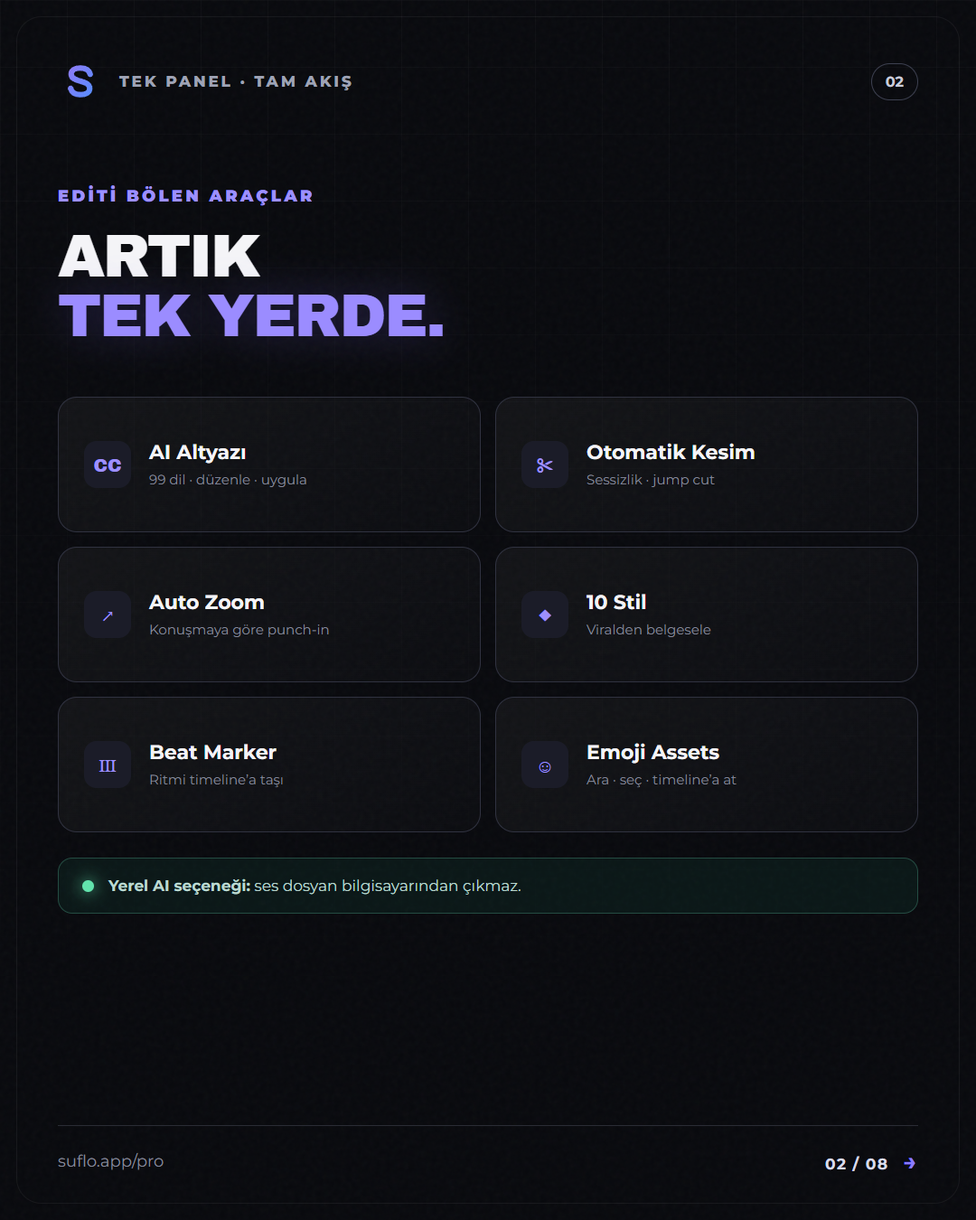
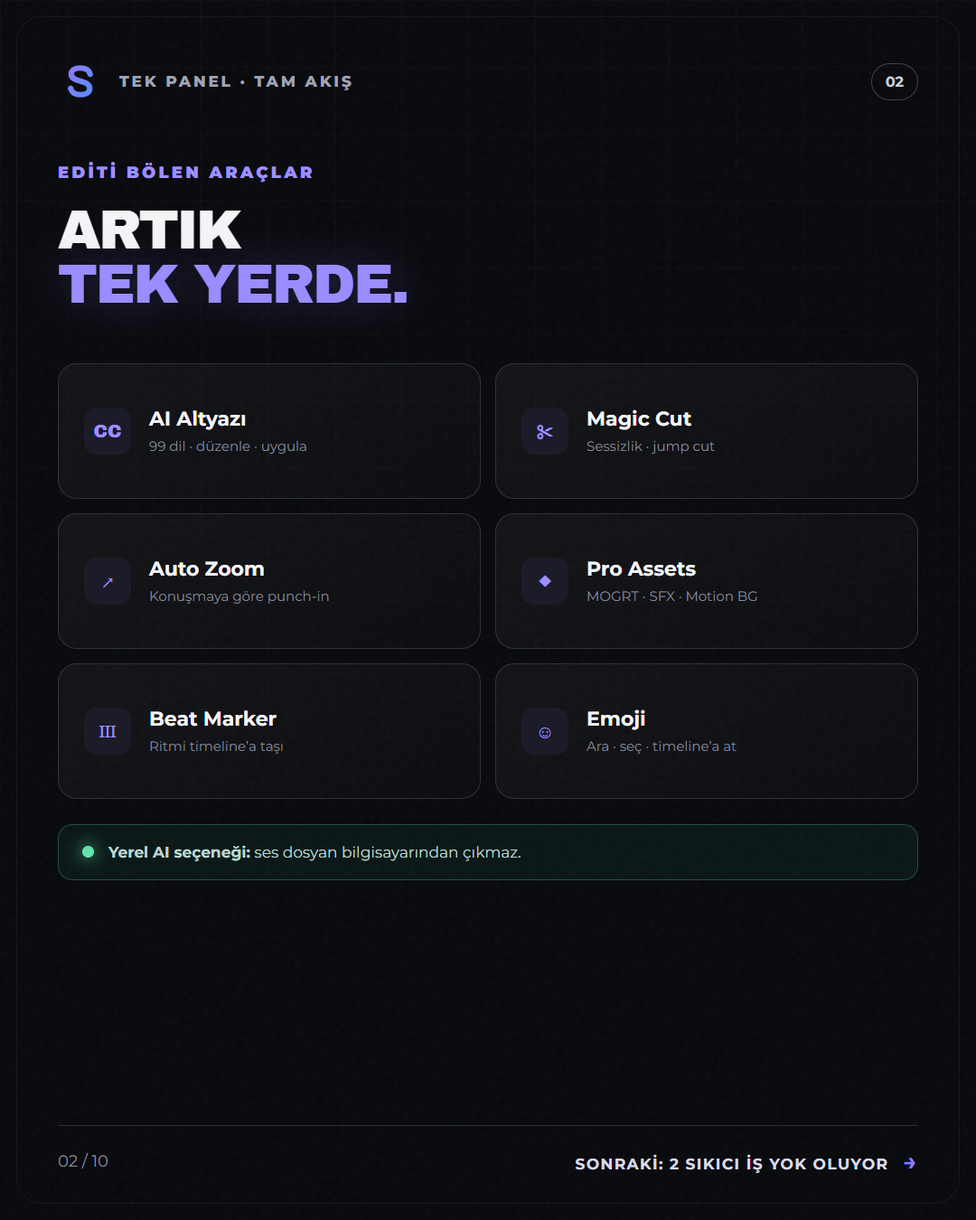
Expand Suflo 2.8.2 sponsored carousel

diff --git a/brand/carousel-2.8.2/carousel.html b/brand/carousel-2.8.2/carousel.html
@@ -12,9 +12,9 @@
       <div class="noise"></div><div class="orb orb-a"></div><div class="orb orb-b"></div>
       <header><img src="../logo-seffaf.svg" alt="Suflo"><span>PREMIERE CREATOR STUDIO</span><b>2.8.2</b></header>
       <div class="hero-copy">
-        <p class="eyebrow">PREMIERE PRO İÇİN YENİ NESİL KURGU PANELİ</p>
+        <p class="eyebrow">KURGUNU YAVAŞLATAN HER ŞEY, TEK PANELDE</p>
         <h1>PREMIERE’DEN<br><em>ÇIKMADAN</em><br>KURGULA.</h1>
-        <p class="lead">Altyazı. Kesim. Zoom. Animasyon. SFX.<br>Tek panelde, tek akışta.</p>
+        <p class="lead">Altyazı. Kesim. Zoom. Yazı efekti. SFX.<br>Akış bozulmadan, fikir soğumadan.</p>
       </div>
       <div class="hero-ui">
         <div class="window-bar"><i></i><i></i><i></i><span>SUFLO / TRANSCRIPT</span><b>PRO</b></div>
@@ -22,118 +22,152 @@
         <div class="transcript dim"><span>00:15</span><p>Boşlukları bul, ritmi koru.</p></div>
         <div class="timeline"><i></i><b></b><b></b><b></b><em></em></div>
       </div>
-      <footer><span>suflo.app/pro</span><b>KAYDIR <i>→</i></b></footer>
+      <footer><span>suflo.app/pro</span><b>İÇERİDE NELER VAR? <i>→</i></b></footer>
     </section>
 
     <section class="slide s2" data-slide="2">
       <div class="noise"></div><div class="grid-bg"></div>
       <header><img src="../logo-seffaf.svg" alt="Suflo"><span>TEK PANEL · TAM AKIŞ</span><b>02</b></header>
-      <div class="title-block"><p class="eyebrow">EDİTİ BÖLEN ARAÇLAR</p><h2>ARTIK<br><em>TEK YERDE.</em></h2></div>
+      <div class="title-block compact-title"><p class="eyebrow">EDİTİ BÖLEN ARAÇLAR</p><h2>ARTIK<br><em>TEK YERDE.</em></h2></div>
       <div class="tool-grid">
         <article><i>CC</i><b>AI Altyazı</b><span>99 dil · düzenle · uygula</span></article>
-        <article><i>✂</i><b>Otomatik Kesim</b><span>Sessizlik · jump cut</span></article>
+        <article><i>✂</i><b>Magic Cut</b><span>Sessizlik · jump cut</span></article>
         <article><i>↗</i><b>Auto Zoom</b><span>Konuşmaya göre punch-in</span></article>
-        <article><i>◆</i><b>10 Stil</b><span>Viralden belgesele</span></article>
+        <article><i>◆</i><b>Pro Assets</b><span>MOGRT · SFX · Motion BG</span></article>
         <article><i>Ⅲ</i><b>Beat Marker</b><span>Ritmi timeline’a taşı</span></article>
-        <article><i>☺</i><b>Emoji Assets</b><span>Ara · seç · timeline’a at</span></article>
+        <article><i>☺</i><b>Emoji</b><span>Ara · seç · timeline’a at</span></article>
       </div>
       <div class="trust"><i></i><span><b>Yerel AI seçeneği:</b> ses dosyan bilgisayarından çıkmaz.</span></div>
-      <footer><span>suflo.app/pro</span><b>02 / 08 <i>→</i></b></footer>
+      <footer><span>02 / 10</span><b>SONRAKİ: 2 SIKICI İŞ YOK OLUYOR <i>→</i></b></footer>
     </section>
 
     <section class="slide s3" data-slide="3">
-      <div class="noise"></div><div class="orb orb-cut"></div>
-      <header><img src="../logo-seffaf.svg" alt="Suflo"><span>MAGIC CUT</span><b>03</b></header>
-      <div class="title-block"><p class="eyebrow">KONTROL SENDE</p><h2>BOŞLUĞU KES.<br><em>HİKÂYEYİ BIRAK.</em></h2></div>
-      <div class="cut-stage">
-        <div class="wave top"><i></i><i></i><i></i><i></i><i></i><i></i><i></i><i></i><i></i><i></i><i></i><i></i><i></i><i></i><i></i><i></i><i></i><i></i></div>
-        <div class="cut-zone z1"><span>SESSİZLİK</span></div><div class="cut-zone z2"><span>DOLGU</span></div>
-        <div class="playhead"></div>
-        <div class="clips"><b>01</b><b>02</b><b>03</b><b>04</b><b>05</b></div>
+      <div class="noise"></div><div class="orb orb-cut"></div><div class="rings mini-rings"></div>
+      <header><img src="../logo-seffaf.svg" alt="Suflo"><span>MAGIC CUT + AUTO ZOOM</span><b>03</b></header>
+      <div class="title-block compact-title"><p class="eyebrow">RİTMİ SEN KUR, TEKRARI SUFLO YAPSIN</p><h2>KESİM VE ZOOM.<br><em>İKİSİ DE AKILLI.</em></h2></div>
+      <div class="dual-feature">
+        <article class="dual-cut">
+          <div class="mini-wave"><i></i><i></i><i></i><i></i><i></i><i></i><i></i><i></i><i></i></div>
+          <span>01 · MAGIC CUT</span><b>Boşlukları bulur.</b><p>Önizlersin, onaylarsın, timeline temizlenir.</p>
+        </article>
+        <article class="dual-zoom">
+          <div class="focus-box"><b>100%</b><i>112%</i></div>
+          <span>02 · AUTO ZOOM</span><b>Vurguyu yaklaştırır.</b><p>Yoğunluk, süre ve aralık kontrolü sende kalır.</p>
+        </article>
       </div>
-      <div class="feature-list">
-        <article><b>01</b><span><strong>Önce analiz</strong> — kesilecek yerleri gör.</span></article>
-        <article><b>02</b><span><strong>Sonra önizle</strong> — ritmi sen onayla.</span></article>
-        <article><b>03</b><span><strong>Tek tıkla uygula</strong> — timeline temizlensin.</span></article>
-      </div>
-      <footer><span>suflo.app/pro</span><b>03 / 08 <i>→</i></b></footer>
+      <div class="proof-bar"><b>KONTROL SENDE</b><span>Analiz → Önizleme → Uygula</span></div>
+      <footer><span>03 / 10</span><b>SONRAKİ: EN COOL TEXT EFEKTLERİ <i>→</i></b></footer>
     </section>
 
-    <section class="slide s4" data-slide="4">
+    <section class="slide s4 text-fx-slide" data-slide="4">
+      <div class="noise"></div><div class="text-ghost">TEXT</div>
+      <header><img src="../logo-seffaf.svg" alt="Suflo"><span>PRO TEXT EFFECTS</span><b>04</b></header>
+      <div class="title-block fx-title"><p class="eyebrow">TİKTOK’TAN PREMIUM REKLAMA</p><h2>YAZI DEĞİL.<br><em>SAHNENİN KENDİSİ.</em></h2></div>
+      <div class="fx-gallery">
+        <article class="fx-wide"><img src="../../assets/pro-mogrt-showcase/previews/31-premium-text.webp" alt="Premium Text"><span><b>PREMIUM TEXT</b><i>Sinematik başlık</i></span></article>
+        <article><img src="../../assets/pro-mogrt-showcase/previews/01-smooth-up.webp" alt="Smooth Up"><span><b>SMOOTH UP</b><i>Temiz giriş</i></span></article>
+        <article><img src="../../assets/pro-mogrt-showcase/previews/06-gold-text.webp" alt="Gold Text"><span><b>GOLD TEXT</b><i>Lüks görünüm</i></span></article>
+        <article><img src="../../assets/pro-mogrt-showcase/previews/29-cracked.webp" alt="Cracked"><span><b>CRACKED</b><i>Yüksek etki</i></span></article>
+        <article><img src="../../assets/pro-mogrt-showcase/previews/36-static-shine.webp" alt="Static Shine"><span><b>STATIC SHINE</b><i>Parlak vurgu</i></span></article>
+      </div>
+      <div class="count-ribbon"><strong>262</strong><span>MOGRT · yazı · grafik · geçiş</span><b>PRO</b></div>
+      <footer><span>04 / 10</span><b>SONRAKİ: EDİTİ DUYURAN 769 SES <i>→</i></b></footer>
+    </section>
+
+    <section class="slide s5 sfx-slide" data-slide="5">
+      <div class="noise"></div><div class="orb orb-sfx"></div>
+      <header><img src="../logo-seffaf.svg" alt="Suflo"><span>SMART SFX LIBRARY</span><b>05</b></header>
+      <div class="title-block compact-title"><p class="eyebrow">SESSİZ EDİT, YARIM EDİTTİR</p><h2>HER HAREKETİN<br><em>BİR SESİ VAR.</em></h2></div>
+      <div class="sfx-counter"><strong>769</strong><div><b>SFX</b><span>Ara · ön dinle · playhead’e ekle</span></div></div>
+      <div class="sfx-browser">
+        <div class="search"><i>⌕</i><span>whoosh, impact, click...</span><b>⌘K</b></div>
+        <div class="sfx-tags"><span>SUFLO SMOOTH</span><span>WHOOSHES</span><span>IMPACTS</span><span>QUICK WHIPS</span><span>POP SOUNDS</span><span>CLICKS</span><span>NOTIFICATIONS</span><span>KEYBOARD</span><span>PAPER</span><span>GLITCHES</span></div>
+        <div class="audio-row"><button>▶</button><b>SUFLO Smooth Whoosh 04</b><i></i><span>＋ EKLE</span></div>
+      </div>
+      <p class="sfx-note">Yeni: Malice iş birliğiyle hazırlanan <b>9 özel SUFLO Smooth Whoosh.</b></p>
+      <footer><span>05 / 10</span><b>SONRAKİ: KEYFRAME’SİZ HAREKET <i>→</i></b></footer>
+    </section>
+
+    <section class="slide s6 motion-slide" data-slide="6">
       <div class="noise"></div><div class="rings"></div>
-      <header><img src="../logo-seffaf.svg" alt="Suflo"><span>AUTO ZOOM + MOTION</span><b>04</b></header>
-      <div class="title-block"><p class="eyebrow">KEYFRAME ÇİZMEK YERİNE</p><h2>HAREKETİ<br><em>TEK TIKLA VER.</em></h2></div>
-      <div class="zoom-stage">
-        <div class="frame f1"><span>100%</span><b>SUFLO</b></div>
-        <div class="arrow">→</div>
-        <div class="frame f2"><span>112%</span><b>SUFLO</b><i></i></div>
+      <header><img src="../logo-seffaf.svg" alt="Suflo"><span>ONE-CLICK MOTION</span><b>06</b></header>
+      <div class="title-block compact-title"><p class="eyebrow">KEYFRAME ÇİZMEK YERİNE</p><h2>HAREKETİ<br><em>TEK TIKLA VER.</em></h2></div>
+      <div class="motion-grid">
+        <article><i>↗</i><b>Simple Zoom In</b><span>Yumuşak yaklaşma</span></article>
+        <article><i>↙</i><b>Simple Zoom Out</b><span>Temiz açılma</span></article>
+        <article><i>●</i><b>Pop In</b><span>Esnek giriş</span></article>
+        <article><i>→</i><b>Slide In</b><span>4 yönlü giriş</span></article>
+        <article><i>◇</i><b>Clean Fade</b><span>Giriş + çıkış</span></article>
+        <article><i>✦</i><b>Focus Punch</b><span>Vurgu zoom’u</span></article>
+        <article><i>〰</i><b>Micro Shake</b><span>Kamera vurgusu</span></article>
+        <article><i>⇥</i><b>Slide Out</b><span>Temiz çıkış</span></article>
       </div>
-      <div class="metric-row">
-        <article><strong>12</strong><b>Yerleşik Motion</b><span>Slide · Zoom · Pop · Fade</span></article>
-        <article><strong>AUTO</strong><b>Konuşma Zoom’u</b><span>Yoğunluk · süre · aralık kontrolü</span></article>
-      </div>
-      <div class="micro-note">Preset uygulandı deyip geçmez: anahtarları gerçekten timeline’a yazar ve doğrular.</div>
-      <footer><span>suflo.app/pro</span><b>04 / 08 <i>→</i></b></footer>
+      <div class="motion-proof"><strong>12</strong><span><b>yerleşik hareket</b><i>Premiere timeline’ına gerçek keyframe yazar.</i></span></div>
+      <footer><span>06 / 10</span><b>SONRAKİ: 278’LİK DEV PAKET <i>→</i></b></footer>
     </section>
 
-    <section class="slide s5" data-slide="5">
-      <div class="noise"></div><div class="orb orb-lib"></div>
-      <header><img src="../logo-seffaf.svg" alt="Suflo"><span>PRO İÇERİK BULUTU</span><b>05</b></header>
-      <div class="title-block"><p class="eyebrow">HER EDİTÖRÜN ARADIĞI ŞEY</p><h2>BİR KÜTÜPHANE DEĞİL.<br><em>EDİT CEPHANELİĞİ.</em></h2></div>
-      <div class="big-metrics">
-        <article><strong>262</strong><b>ANİMASYON</b><span>Yazı · grafik · geçiş</span></article>
-        <article><strong>769</strong><b>SFX</b><span>Ara · ön dinle · ekle</span></article>
-        <article><strong>30</strong><b>MOTION BG</b><span>Zemin · overlay · loop</span></article>
-      </div>
-      <div class="preview-strip">
-        <img src="../../assets/pro-mogrt-showcase/previews/01-smooth-up.webp" alt="Smooth Up">
-        <img src="../../assets/pro-mogrt-showcase/previews/06-gold-text.webp" alt="Gold Text">
-        <img src="../../assets/pro-mogrt-showcase/previews/11-zoom-in.webp" alt="Zoom In">
-        <img src="../../assets/pro-mogrt-showcase/previews/31-premium-text.webp" alt="Premium Text">
-      </div>
-      <div class="cloud-note"><i>↻</i><span><b>Bir kez kur.</b> Yeni içerik geldiğinde yalnız değişen dosyalar insin.</span></div>
-      <footer><span>suflo.app/pro</span><b>05 / 08 <i>→</i></b></footer>
-    </section>
-
-    <section class="slide s6" data-slide="6">
+    <section class="slide s7 preset-slide" data-slide="7">
       <div class="noise"></div><div class="mesh"></div>
-      <header><img src="../logo-seffaf.svg" alt="Suflo"><span>YENİ · 2.8.2</span><b>06</b></header>
+      <header><img src="../logo-seffaf.svg" alt="Suflo"><span>YENİ · SUFLO SMOOTH PACK</span><b>07</b></header>
       <div class="preset-hero">
         <div class="pr-icon"><span>Pr</span><b>278</b><i>PRESET</i></div>
-        <div><p class="eyebrow">SUFLO SMOOTH EDITING PACK</p><h2>PREMIERE’E<br><em>YENİ HAREKET DİLİ.</em></h2></div>
+        <div><p class="eyebrow">TEK DOSYADA DEV HAREKET SETİ</p><h2>PREMIERE’E<br><em>YENİ HAREKET DİLİ.</em></h2></div>
       </div>
       <div class="preset-tags"><span>SHAKE</span><span>SLIDE</span><span>ZOOM</span><span>TRANSITION</span><span>LOOK</span><span>BLUR</span><span>FLASH</span><span>FLICKER</span></div>
       <div class="install-card">
-        <div><b>1×</b><span>dosyayı içe aktar</span></div><i>→</i><div><b>∞</b><span>Premiere’de kalıcı kullan</span></div>
+        <div><b>1×</b><span>paketi içe aktar</span></div><i>→</i><div><b>∞</b><span>Premiere’de kalıcı kullan</span></div>
       </div>
-      <p class="honest">Suflo paketi otomatik indirir, dosyayı gösterir ve gerçek Premiere import adımlarını açar.</p>
-      <footer><span>suflo.app/pro</span><b>06 / 08 <i>→</i></b></footer>
+      <p class="honest">Suflo paketi indirir, dosyayı gösterir ve doğru Premiere import adımlarını açar.</p>
+      <footer><span>07 / 10</span><b>SONRAKİ: KÜTÜPHANE NASIL BÜYÜR? <i>→</i></b></footer>
     </section>
 
-    <section class="slide s7" data-slide="7">
+    <section class="slide s8 cloud-slide" data-slide="8">
+      <div class="noise"></div><div class="orb orb-lib"></div>
+      <header><img src="../logo-seffaf.svg" alt="Suflo"><span>PRO İÇERİK BULUTU</span><b>08</b></header>
+      <div class="title-block compact-title"><p class="eyebrow">BİR KEZ KUR, GÜNCEL KAL</p><h2>YENİ İÇERİK GELİR.<br><em>PAKETİN BÜYÜR.</em></h2></div>
+      <div class="big-metrics cloud-metrics">
+        <article><strong>262</strong><b>MOGRT</b><span>Yazı · grafik · geçiş</span></article>
+        <article><strong>769</strong><b>SFX</b><span>Sesli geri bildirim</span></article>
+        <article><strong>30</strong><b>MOTION BG</b><span>Zemin · overlay · loop</span></article>
+      </div>
+      <div class="sync-flow">
+        <article><b>01</b><span><strong>Suflo kontrol eder</strong><i>Yeni içerik var mı?</i></span></article>
+        <article><b>02</b><span><strong>Sadece değişeni indirir</strong><i>Baştan paket kurdurmaz.</i></span></article>
+        <article><b>03</b><span><strong>Kütüphaneyi açar</strong><i>İçerik kullanıma hazır.</i></span></article>
+      </div>
+      <div class="cloud-note"><i>↻</i><span><b>Pro içerik bulutu:</b> lisansına bağlı, güncel ve tek panelden yönetilir.</span></div>
+      <footer><span>08 / 10</span><b>SONRAKİ: ALTYAZININ 10 KARAKTERİ <i>→</i></b></footer>
+    </section>
+
+    <section class="slide s9 caption-slide" data-slide="9">
       <div class="noise"></div><div class="type-bg">SUFLO SUFLO SUFLO</div>
-      <header><img src="../logo-seffaf.svg" alt="Suflo"><span>ALTYAZI STİLLERİ</span><b>07</b></header>
-      <div class="title-block"><p class="eyebrow">OKUNMAK İÇİN DEĞİL, HATIRLANMAK İÇİN</p><h2>SIRADAN ALTYAZI DEĞİL.<br><em>BİR STİL SEÇ.</em></h2></div>
+      <header><img src="../logo-seffaf.svg" alt="Suflo"><span>AI ALTYAZI + 10 STİL</span><b>09</b></header>
+      <div class="title-block compact-title"><p class="eyebrow">VİRALDEN BELGESELE, TEK TIKLA</p><h2>ALTYAZININ DA<br><em>BİR KARAKTERİ VAR.</em></h2></div>
       <div class="style-stage">
-        <article class="st-yellow"><span>BUGÜN</span><b>DEĞİŞİYOR</b></article>
-        <article class="st-green"><span>PARA</span><b>KAZAN</b></article>
-        <article class="st-box"><span>TAM</span><b>VİRAL</b></article>
-        <article class="st-neon"><span>GECE</span><b>MODU</b></article>
+        <article class="st-yellow"><span>SARI</span><b>VURGU</b></article>
+        <article class="st-green"><span>YEŞİL</span><b>KONTUR</b></article>
+        <article class="st-box"><span>TAM</span><b>KUTU</b></article>
+        <article class="st-neon"><span>NEON</span><b>GECE</b></article>
         <article class="st-serif"><span>zarif</span><b>hikâye</b></article>
-        <article class="st-type"><span>yazılıyor</span><b>|</b></article>
+        <article class="st-type"><span>daktilo</span><b>|</b></article>
       </div>
-      <div class="style-foot"><strong>10</strong><span>tanınır stil · gerçek panel önizlemesi · kilitli Pro vitrini</span></div>
-      <footer><span>suflo.app/pro</span><b>07 / 08 <i>→</i></b></footer>
+      <div class="caption-stats">
+        <article><strong>99</strong><span><b>dil</b><i>AI transkripsiyon</i></span></article>
+        <article><strong>10</strong><span><b>stil</b><i>gerçek panel önizlemesi</i></span></article>
+        <article><strong>LOCAL</strong><span><b>seçenek</b><i>ses bilgisayarında</i></span></article>
+      </div>
+      <footer><span>09 / 10</span><b>SONRAKİ: TAM PAKET + FİYAT <i>→</i></b></footer>
     </section>
 
-    <section class="slide s8" data-slide="8">
+    <section class="slide s10 offer-slide" data-slide="10">
       <div class="noise"></div><div class="orb orb-price"></div><div class="price-grid"></div>
-      <header><img src="../logo-seffaf.svg" alt="Suflo"><span>SUFLO PRO</span><b>08</b></header>
+      <header><img src="../logo-seffaf.svg" alt="Suflo"><span>SUFLO PRO 2.8.2</span><b>10</b></header>
       <div class="price-copy">
         <p class="eyebrow">ABONELİK YOK. KREDİ YOK.</p>
-        <h2>BİR KERE AL.<br><em>HER EDİTTE HIZLAN.</em></h2>
+        <h2>DAHA AZ TIK.<br><em>DAHA ÇOK KURGU.</em></h2>
         <div class="price"><strong>749</strong><span>TL</span><i>tek sefer</i></div>
       </div>
+      <div class="value-stack"><b>262 MOGRT</b><i>+</i><b>769 SFX</b><i>+</i><b>278 PRESET</b></div>
       <div class="offer-list">
         <span><i>✓</i> 3 bilgisayarda kullanım</span>
         <span><i>✓</i> 14 gün iade güvencesi</span>
@@ -141,8 +175,8 @@
         <span><i>✓</i> Premiere 2020+ · Windows / macOS</span>
       </div>
       <div class="cta"><span>HEMEN İNCELE</span><b>suflo.app/pro</b><i>→</i></div>
-      <p class="fine">Ücretsiz Suflo sürümü devam eder. Pro, hızlandırıcı araçları ve içerik kütüphanesini açar.</p>
-      <footer><span>@suflo.app</span><b>PREMIERE’DE DAHA AZ TIK.</b></footer>
+      <p class="fine">Ücretsiz Suflo sürümü devam eder. Pro; hızlandırıcı araçları, presetleri ve içerik kütüphanesini açar.</p>
+      <footer><span>@suflo.app</span><b>YENİ SÜRÜM ŞİMDİ YAYINDA.</b></footer>
     </section>
   </main>
   <script src="carousel.js"></script>

diff --git a/brand/carousel-2.8.2/carousel.css b/brand/carousel-2.8.2/carousel.css
@@ -8,3 +8,12 @@
 .mesh{position:absolute;inset:0;background:radial-gradient(circle at 78% 33%,rgba(107,77,255,.26),transparent 28%),radial-gradient(circle at 13% 72%,rgba(11,123,149,.18),transparent 27%)}.preset-hero{position:relative;z-index:3;margin-top:86px;display:grid;grid-template-columns:270px 1fr;align-items:center;gap:42px}.pr-icon{height:260px;border-radius:34px;background:linear-gradient(150deg,#17182a,#0d0e16);border:1px solid #544995;box-shadow:0 30px 70px rgba(0,0,0,.42),inset 0 0 55px rgba(101,75,255,.13);display:flex;flex-direction:column;align-items:center;justify-content:center}.pr-icon span{position:absolute;margin-top:-185px;margin-left:-180px;font-family:Archivo;color:#b4aaff}.pr-icon b{font-family:Archivo;font-size:92px;line-height:1;color:#a497ff}.pr-icon i{font-style:normal;font-size:14px;letter-spacing:3px;color:#73778d;margin-top:12px}.preset-hero h2{font-size:56px}.preset-tags{position:relative;z-index:3;margin-top:55px;display:flex;gap:12px;flex-wrap:wrap}.preset-tags span{padding:16px 22px;border:1px solid #343747;border-radius:999px;background:rgba(255,255,255,.025);font-family:Archivo;font-size:16px;letter-spacing:1px;color:#c6c8d4}.preset-tags span:nth-child(4n+1){border-color:#5c50a8;color:#b3a9ff}.install-card{position:relative;z-index:3;margin-top:45px;padding:28px 38px;border-radius:23px;border:1px solid #343746;background:#11131b;display:flex;align-items:center;justify-content:space-around}.install-card div{display:flex;align-items:center;gap:16px}.install-card div b{font-family:Archivo;font-size:42px;color:#9e91ff}.install-card div span{font-size:17px;color:#a7aaba}.install-card>i{font-style:normal;color:#5b5f70;font-size:34px}.honest{position:relative;z-index:3;color:#8f93a6;font-size:15px;text-align:center;margin:22px 30px 0;line-height:1.55}
 .type-bg{position:absolute;left:-80px;top:360px;white-space:nowrap;font-family:Archivo;font-size:150px;color:rgba(255,255,255,.018);transform:rotate(-8deg)}.style-stage{position:relative;z-index:3;margin-top:56px;display:grid;grid-template-columns:1fr 1fr 1fr;gap:13px}.style-stage article{height:153px;border:1px solid #30333f;border-radius:20px;background:#11131a;display:flex;flex-direction:column;align-items:center;justify-content:center;overflow:hidden}.style-stage span,.style-stage b{font-family:Archivo;font-size:26px}.st-yellow span{background:#ffd84b;color:#111;padding:4px 10px}.st-green b{color:#67f2a8;text-shadow:2px 2px 0 #111,-1px -1px 0 #111}.st-box span{padding:6px 12px;background:#9a82ff}.st-neon{box-shadow:inset 0 0 40px rgba(202,54,255,.12)}.st-neon b{color:#ff75f1;text-shadow:0 0 17px #dc3cff}.st-serif span,.st-serif b{font-family:Lora,serif;font-style:italic}.st-type span{font-family:monospace;font-size:23px}.st-type b{color:#9e91ff}.style-foot{position:relative;z-index:3;margin-top:25px;padding:22px 28px;border-radius:18px;background:linear-gradient(100deg,rgba(125,104,255,.19),rgba(20,22,31,.7));border:1px solid #3a3562;display:flex;align-items:center;gap:22px}.style-foot strong{font-family:Archivo;font-size:44px;color:#a699ff}.style-foot span{font-size:16px;color:#b2b5c4}
 .orb-price{width:820px;height:820px;left:390px;top:-320px;background:radial-gradient(circle,#332071,transparent 67%)}.price-grid{position:absolute;inset:0;background:linear-gradient(rgba(255,255,255,.018) 1px,transparent 1px),linear-gradient(90deg,rgba(255,255,255,.018) 1px,transparent 1px);background-size:60px 60px;transform:perspective(600px) rotateX(55deg) translateY(680px) scale(1.8);transform-origin:center}.price-copy{position:relative;z-index:3;margin-top:90px}.price-copy h2{font-size:70px}.price{margin-top:40px;display:flex;align-items:flex-end;gap:14px}.price strong{font-family:Archivo;font-size:145px;line-height:.8;color:#fff}.price span{font-family:Archivo;font-size:55px;color:#a599ff}.price i{font-style:normal;margin:0 0 7px 8px;padding:10px 14px;border-radius:999px;background:#26223f;color:#bdb6ec;font-size:15px}.offer-list{position:relative;z-index:3;margin-top:52px;display:grid;grid-template-columns:1fr 1fr;gap:15px}.offer-list span{padding:19px 18px;border:1px solid #30323e;border-radius:15px;background:rgba(17,19,26,.75);font-size:15px;color:#b8bbc8}.offer-list i{font-style:normal;color:#6ce5ac;margin-right:10px;font-weight:900}.cta{position:relative;z-index:3;margin-top:38px;height:105px;border-radius:22px;background:linear-gradient(105deg,#7767f4,#5f8cf8);box-shadow:0 28px 60px rgba(90,85,242,.3);display:grid;grid-template-columns:190px 1fr 50px;align-items:center;padding:0 32px}.cta span{font-size:14px;letter-spacing:1.8px}.cta b{font-family:Archivo;font-size:32px}.cta i{font-style:normal;font-size:38px}.fine{position:relative;z-index:3;text-align:center;color:#7d8191;font-size:13px;margin:19px 30px 0;line-height:1.5}
+
+/* 2.8.2 conversion carousel expansion */
+.compact-title{margin-top:58px}.compact-title h2{font-size:61px}.mini-rings{right:-520px;top:290px;opacity:.7}.dual-feature{position:relative;z-index:4;display:grid;grid-template-columns:1fr 1fr;gap:18px;margin-top:50px}.dual-feature article{height:420px;padding:28px;border:1px solid #323542;border-radius:25px;background:linear-gradient(150deg,rgba(25,27,38,.95),rgba(11,12,18,.95));box-shadow:0 28px 60px rgba(0,0,0,.25)}.dual-feature article>span{display:block;margin-top:25px;color:#9d90ff;font-size:14px;letter-spacing:2px;font-weight:900}.dual-feature article>b{display:block;margin-top:13px;font-size:25px}.dual-feature article>p{color:#8f93a5;font-size:16px;line-height:1.5;margin:10px 0 0}.mini-wave{height:180px;padding:28px 20px;display:flex;align-items:center;gap:7px;border-radius:18px;background:#0b0d13;border:1px solid #282b36}.mini-wave i{flex:1;height:70%;border-radius:7px;background:#8d7efa}.mini-wave i:nth-child(2n){height:35%}.mini-wave i:nth-child(3n){height:94%;background:#e55f79}.focus-box{position:relative;height:180px;border-radius:18px;background:linear-gradient(145deg,#151722,#0a0b0f);border:1px solid #2d3040;overflow:hidden;display:flex;align-items:center;justify-content:center}.focus-box:after{content:"";position:absolute;width:140px;height:105px;border:2px solid #8d7eff;border-radius:12px;box-shadow:0 0 28px rgba(141,126,255,.35)}.focus-box b,.focus-box i{position:absolute;font-style:normal;font-family:Archivo}.focus-box b{left:18px;top:17px;color:#70758a;font-size:15px}.focus-box i{font-size:38px;color:#a99eff;z-index:2}.proof-bar{position:relative;z-index:4;margin-top:22px;border-left:4px solid #8d7efa;padding:17px 24px;background:rgba(141,126,250,.08);display:flex;justify-content:space-between;font-size:17px}.proof-bar span{color:#9599ab}
+.text-ghost{position:absolute;right:-45px;top:105px;font-family:Archivo;font-size:260px;color:rgba(255,255,255,.018);transform:rotate(90deg)}.fx-title{margin-top:56px}.fx-title h2{font-size:58px}.fx-gallery{position:relative;z-index:3;margin-top:38px;display:grid;grid-template-columns:repeat(3,1fr);grid-auto-rows:184px;gap:12px}.fx-gallery article{position:relative;border-radius:19px;overflow:hidden;border:1px solid #333644;background:#13151d}.fx-gallery .fx-wide{grid-column:span 2}.fx-gallery img{width:100%;height:100%;object-fit:cover}.fx-gallery article:after{content:"";position:absolute;inset:38% 0 0;background:linear-gradient(transparent,rgba(6,7,10,.96))}.fx-gallery span{position:absolute;z-index:2;left:18px;right:18px;bottom:15px;display:flex;align-items:flex-end;justify-content:space-between}.fx-gallery span b{font-size:14px;letter-spacing:.5px}.fx-gallery span i{font-style:normal;font-size:12px;color:#a9acba}.count-ribbon{position:relative;z-index:3;margin-top:20px;height:90px;border:1px solid #423b77;border-radius:20px;background:linear-gradient(100deg,rgba(120,100,255,.18),rgba(15,17,24,.8));display:flex;align-items:center;padding:0 28px;gap:20px}.count-ribbon strong{font-family:Archivo;font-size:51px;color:#a69bff}.count-ribbon span{font-size:16px;color:#b3b6c5}.count-ribbon b{margin-left:auto;padding:9px 12px;border-radius:8px;background:#7567f6;font-size:12px}
+.orb-sfx{width:780px;height:780px;right:-330px;top:180px;background:radial-gradient(circle,#143c51,transparent 68%)}.sfx-counter{position:relative;z-index:3;margin-top:30px;display:flex;align-items:flex-end;gap:22px}.sfx-counter strong{font-family:Archivo;font-size:102px;line-height:.82;color:#a599ff}.sfx-counter div{display:flex;flex-direction:column;padding-bottom:2px}.sfx-counter b{font-family:Archivo;font-size:29px}.sfx-counter span{color:#8f93a5;font-size:16px;margin-top:8px}.sfx-browser{position:relative;z-index:3;margin-top:28px;border:1px solid #323542;border-radius:25px;background:linear-gradient(150deg,#161822,#0d0e14);padding:24px;box-shadow:0 35px 70px rgba(0,0,0,.35)}.search{height:62px;border-radius:14px;background:#0b0d12;border:1px solid #292c37;display:flex;align-items:center;padding:0 18px;color:#6f7488}.search i{font-style:normal;font-size:30px;color:#9f93ff}.search span{margin-left:13px;font-size:16px}.search b{margin-left:auto;padding:7px 9px;border-radius:7px;background:#20232e;font-size:12px}.sfx-tags{display:flex;flex-wrap:wrap;gap:9px;margin-top:20px}.sfx-tags span{padding:11px 14px;border-radius:999px;border:1px solid #333642;color:#a7aab8;font-size:11px;font-weight:800;letter-spacing:.5px}.sfx-tags span:first-child{background:#6e60df;border-color:#8c80ff;color:#fff}.audio-row{height:72px;margin-top:22px;border-top:1px solid #292c36;display:flex;align-items:flex-end;gap:14px}.audio-row button{border:0;width:38px;height:38px;border-radius:50%;background:#8d7efa;color:#fff}.audio-row b{font-size:14px}.audio-row i{flex:1;height:22px;background:repeating-linear-gradient(90deg,#565d76 0 2px,transparent 2px 6px);opacity:.8}.audio-row span{font-size:12px;color:#ada6ff;font-weight:900}.sfx-note{position:relative;z-index:3;margin:20px 0 0;padding:17px 22px;border-left:3px solid #57cfbc;background:rgba(36,121,111,.1);color:#a8acba;font-size:15px}.sfx-note b{color:#e6e8ef}
+.motion-grid{position:relative;z-index:3;margin-top:45px;display:grid;grid-template-columns:repeat(4,1fr);gap:12px}.motion-grid article{height:157px;padding:19px;border:1px solid #323542;border-radius:19px;background:linear-gradient(145deg,#171922,#0d0e13);display:flex;flex-direction:column}.motion-grid article i{width:43px;height:43px;border-radius:12px;background:#202237;color:#a79cff;display:flex;align-items:center;justify-content:center;font-style:normal;font-size:22px}.motion-grid article b{font-size:14px;margin-top:16px}.motion-grid article span{font-size:11px;color:#85899b;margin-top:6px}.motion-grid article:nth-child(3n+1){border-color:#443d76}.motion-proof{position:relative;z-index:3;margin-top:22px;height:108px;padding:18px 26px;border-radius:21px;border:1px solid #40396e;background:rgba(112,91,230,.12);display:flex;align-items:center;gap:24px}.motion-proof strong{font-family:Archivo;font-size:56px;color:#a79cff}.motion-proof span{display:flex;flex-direction:column}.motion-proof b{font-size:19px}.motion-proof i{font-style:normal;color:#979bac;font-size:14px;margin-top:6px}
+.cloud-metrics{margin-top:40px}.cloud-metrics article{height:165px}.cloud-metrics strong{font-size:47px}.sync-flow{position:relative;z-index:3;margin-top:25px;display:grid;grid-template-columns:1fr;gap:10px}.sync-flow article{height:74px;padding:0 22px;border:1px solid #2f323e;border-radius:16px;background:rgba(17,19,27,.9);display:flex;align-items:center;gap:18px}.sync-flow article>b{font-family:Archivo;color:#8e81f3;font-size:19px}.sync-flow span{display:flex;flex:1;align-items:center;justify-content:space-between}.sync-flow strong{font-size:16px}.sync-flow i{font-style:normal;color:#808496;font-size:13px}.cloud-slide .cloud-note{margin-top:17px;padding:18px 23px}
+.caption-stats{position:relative;z-index:3;margin-top:23px;display:grid;grid-template-columns:1fr 1fr 1fr;gap:11px}.caption-stats article{height:104px;border:1px solid #343747;border-radius:18px;background:rgba(17,19,26,.88);display:flex;align-items:center;padding:16px;gap:13px}.caption-stats strong{font-family:Archivo;font-size:30px;color:#a69aff}.caption-stats span{display:flex;flex-direction:column}.caption-stats b{font-size:14px}.caption-stats i{font-style:normal;color:#85899b;font-size:10px;margin-top:5px}
+.offer-slide .price-copy{margin-top:60px}.offer-slide .price-copy h2{font-size:62px}.offer-slide .price{margin-top:28px}.offer-slide .price strong{font-size:120px}.value-stack{position:relative;z-index:3;margin-top:30px;height:62px;border:1px solid #3a3561;border-radius:16px;background:rgba(111,91,226,.11);display:flex;align-items:center;justify-content:center;gap:18px}.value-stack b{font-family:Archivo;font-size:16px;color:#d8d4ff}.value-stack i{font-style:normal;color:#7669d7}.offer-slide .offer-list{margin-top:22px}.offer-slide .cta{margin-top:25px;height:96px}.offer-slide .fine{margin-top:13px}

diff --git a/brand/carousel-2.8.2/render.js b/brand/carousel-2.8.2/render.js
@@ -5,8 +5,9 @@ var playwright = require("playwright"), sharp = require("sharp");
 var dir = __dirname;
 var base = process.argv[2] || "http://127.0.0.1:48733/brand/carousel-2.8.2/carousel.html";
 var names = [
-  "01-cover.png", "02-one-panel.png", "03-magic-cut.png", "04-auto-zoom.png",
-  "05-pro-cloud.png", "06-smooth-pack.png", "07-caption-styles.png", "08-offer.png"
+  "01-cover.png", "02-one-panel.png", "03-smart-edit.png", "04-text-effects.png",
+  "05-sfx-library.png", "06-motion-presets.png", "07-smooth-pack.png", "08-pro-cloud.png",
+  "09-caption-styles.png", "10-offer.png"
 ];
 
 (async function () {
@@ -41,17 +42,18 @@ var names = [
   }
   await browser.close();
 
-  var thumbW = 324, thumbH = 405, gap = 16, sheetW = gap + 4 * (thumbW + gap), sheetH = gap + 2 * (thumbH + gap);
+  var thumbW = 270, thumbH = 338, gap = 16, sheetW = gap + 5 * (thumbW + gap), sheetH = gap + 2 * (thumbH + gap);
   var layers = [];
   for (var j = 0; j < names.length; j++) {
     layers.push({
       input: await sharp(path.join(dir, names[j])).resize(thumbW, thumbH).png().toBuffer(),
-      left: gap + (j % 4) * (thumbW + gap),
-      top: gap + Math.floor(j / 4) * (thumbH + gap)
+      left: gap + (j % 5) * (thumbW + gap),
+      top: gap + Math.floor(j / 5) * (thumbH + gap)
     });
   }
   await sharp({ create: { width: sheetW, height: sheetH, channels: 4, background: "#090a0e" } })
     .composite(layers).png().toFile(path.join(dir, "carousel-preview-final.png"));
+  await sharp(path.join(dir, "carousel-preview-final.png")).png().toFile(path.join(dir, "carousel-preview.png"));
   fs.writeFileSync(path.join(dir, "render-qa.json"), JSON.stringify({ renderedAt: new Date().toISOString(), slides: qa }, null, 2) + "\n");
   console.log("Suflo carousel rendered: " + qa.length + " slides, 1080x1350");
 }()).catch(function (error) { console.error(error.stack || error); process.exit(1); });

diff --git a/brand/carousel-2.8.2/carousel.js b/brand/carousel-2.8.2/carousel.js
@@ -1,6 +1,6 @@
 (function () {
   "use strict";
-  var n = Math.max(1, Math.min(8, Number(new URLSearchParams(location.search).get("slide") || 1)));
+  var n = Math.max(1, Math.min(10, Number(new URLSearchParams(location.search).get("slide") || 1)));
   document.documentElement.setAttribute("data-slide", String(n));
   var slide = document.querySelector('section[data-slide="' + n + '"]');
   if (slide) slide.classList.add("active");

diff --git a/brand/carousel-2.8.2/copy.md b/brand/carousel-2.8.2/copy.md
@@ -2,21 +2,28 @@
 
 ## Reklam açıklaması
 
-Premiere’de altyazı için bir uygulama, sessizlikler için başka bir araç, zoom için yeniden keyframe… Kurgu akışını bölen işleri tek panelde topladık.
+Premiere’de altyazı için başka, sessizlikler için başka, SFX için başka bir yere gitmek kurgunun ritmini öldürüyor.
 
-Suflo Pro ile AI altyazı, Otomatik Kesim, Auto Zoom, 12 tek-tık Motion, 10 altyazı stili, 262 animasyon, 769 SFX, 30 Motion BG ve yeni 278 efektlik Suflo Smooth Editing Pack aynı akışta.
+Suflo Pro 2.8.2 ile AI altyazı, Magic Cut, Auto Zoom, 12 tek-tık Motion ve bütün Pro içerik kütüphanesi aynı panelde:
 
-Abonelik yok. 749 TL tek sefer. 3 bilgisayar ve 14 gün iade güvencesi.
+• 262 MOGRT — Smooth Up, Gold Text, Premium Text, Cracked ve daha fazlası
+• 769 SFX — Whoosh, Impact, Click, Pop, Notification, Glitch, Keyboard ve Paper sesleri
+• 30 Motion BG
+• Yeni 278 efektlik Suflo Smooth Editing Pack
+• 10 altyazı stili + 99 dil
+• Yeni 9 özel SUFLO Smooth Whoosh
 
-Detaylar: https://suflo.app/pro
+Bir kez kur. Suflo yeni içerikleri kontrol etsin, yalnız değişenleri indirsin. Abonelik yok; 749 TL tek sefer. 3 bilgisayar ve 14 gün iade güvencesi.
+
+Yeni sürüm yayında: https://suflo.app/pro
 
 ## Kısa reklam metni
 
-Premiere’den çıkmadan altyazı, kesim, zoom, animasyon ve SFX. Suflo Pro 2.8.2 şimdi 278 efektlik Suflo Smooth Pack ile daha güçlü. Tek seferlik 749 TL — abonelik yok.
+Premiere’den çıkmadan kes, zoom yap, altyazı oluştur; 262 yazı/grafik efekti, 769 SFX ve 278 hareket presetini tek panelden kullan. Suflo Pro 2.8.2 şimdi yayında — 749 TL tek sefer, abonelik yok.
 
 ## Başlık
 
-Premiere’de daha az tık. Daha akıcı kurgu.
+Premiere’de daha az tık. Daha çok kurgu.
 
 ## CTA
 
@@ -24,4 +31,4 @@ Hemen İncele
 
 ## Alt metin
 
-Suflo Pro’nun Premiere içindeki AI altyazı, otomatik kesim, otomatik zoom, Motion preset, animasyon, ses efekti, hareketli zemin ve altyazı stili özelliklerini anlatan sekiz sayfalık koyu temalı sponsorlu Instagram karuseli.
+Suflo Pro 2.8.2’nin Premiere içindeki AI altyazı, otomatik kesim, otomatik zoom, yazı efektleri, 769 ses efekti, 12 tek-tık hareketi, 278 efektlik Suflo Smooth Editing Pack’i, içerik bulutu ve tek seferlik Pro teklifini anlatan on sayfalık koyu mor premium Instagram karuseli.

diff --git a/brand/carousel-2.8.2/provenance.md b/brand/carousel-2.8.2/provenance.md
@@ -4,8 +4,11 @@
 - Pro fiyatı, cihaz sayısı ve iade: https://suflo.app/pro
 - Sürüm: `CSXS/manifest.xml` — 2.8.2
 - Pro içerik sayıları: `dist/pro-cdn/upload/private/pro-v1/manifest.json` — 262 MOGRT, 769 SFX, 30 Motion BG, 1 adet 278 efektlik preset paketi
-- Yerleşik Motion sayısı ve stil adları: `js/presets.js`, `index.html`
+- Yerleşik 12 Motion adı: `js/presets.js`
+- On altyazı stili ve 99 dil ifadesi: `index.html`, `js/captions.js`
 - Sürüm yenilikleri: `marketing/release-notes.md`
-- Görsel önizlemeler: proje içindeki `assets/pro-mogrt-showcase/previews/` dosyaları
+- Text effect görsel önizlemeleri: `assets/pro-mogrt-showcase/previews/`
+- SFX kategori adları: `Suflo Pro Pack/sfx/` kaynak klasörleri
+- Dokuz `SUFLO Smooth Whoosh`: Malice Smooth Editing Pack kaynağından, kullanıcının beyan ettiği doğrudan yeniden dağıtım izni kapsamında pakete eklendi.
 
-Gerçek dışı müşteri yorumu, karşılaştırmalı rakip iddiası veya garantili süre/kazanç vaadi kullanılmadı.
+Gerçek dışı müşteri yorumu, karşılaştırmalı rakip iddiası veya garantili süre/kazanç vaadi kullanılmadı. Yeniden dağıtım izni doğrulanmayan üçüncü taraf SFX paketleri karusele ve yayın paketine dahil edilmedi.
